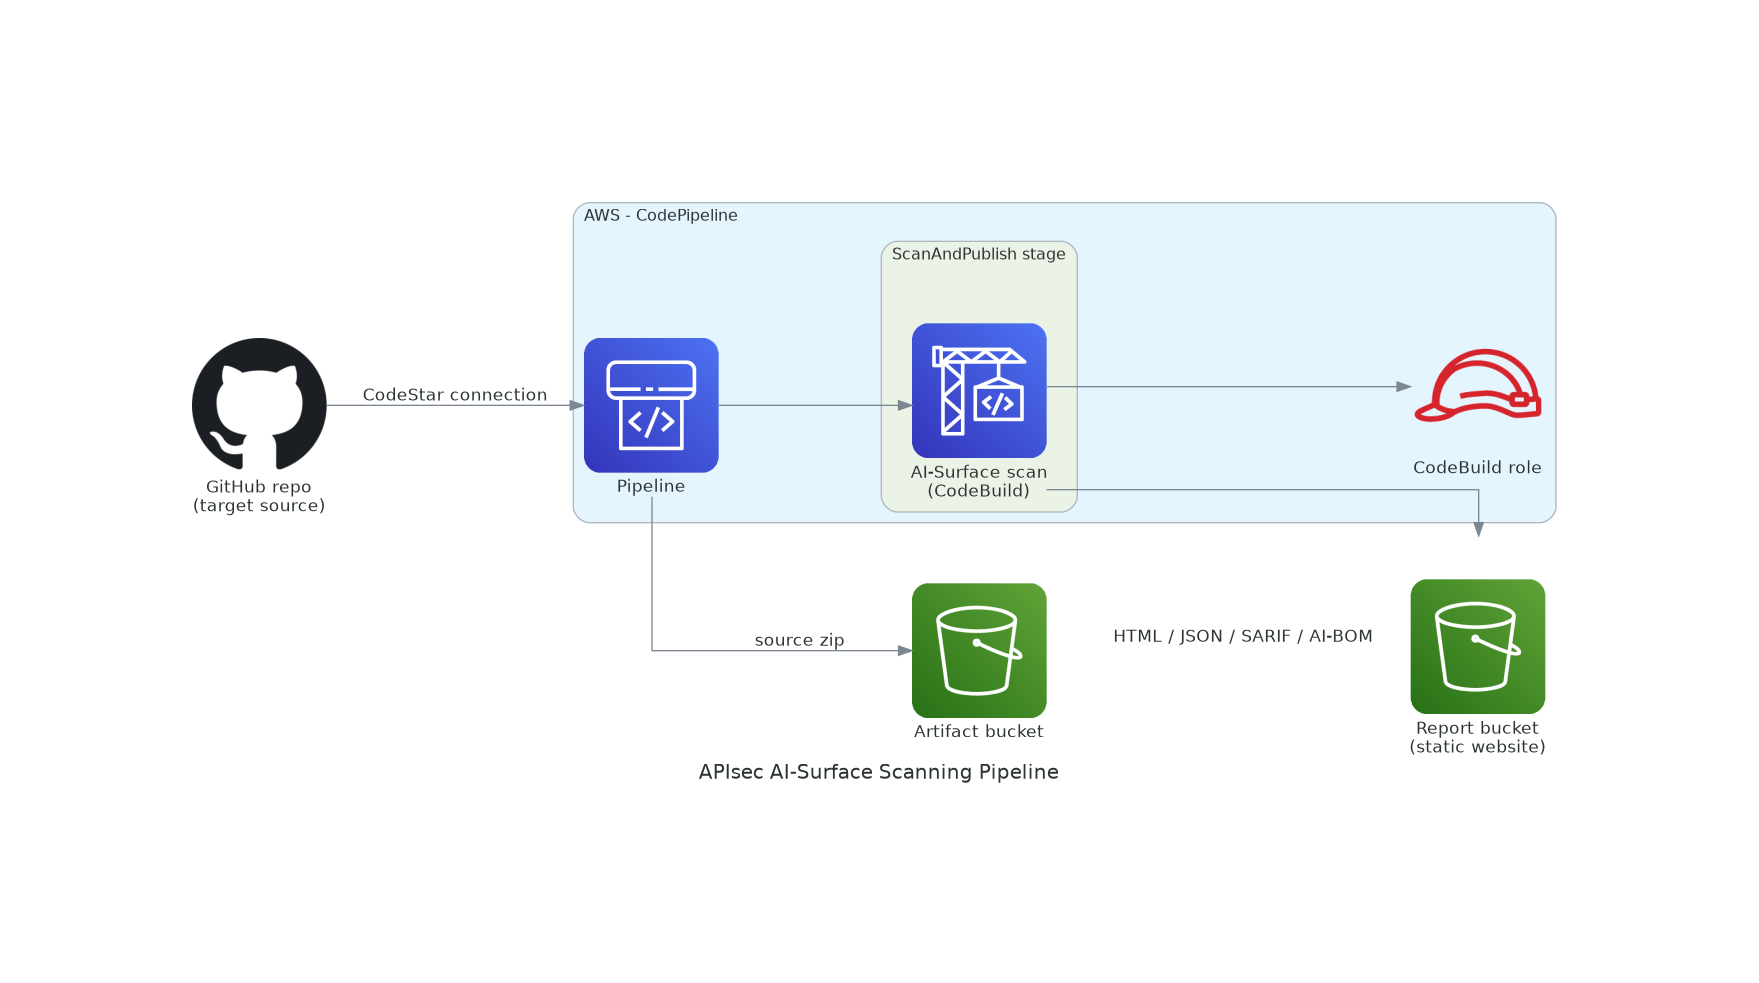
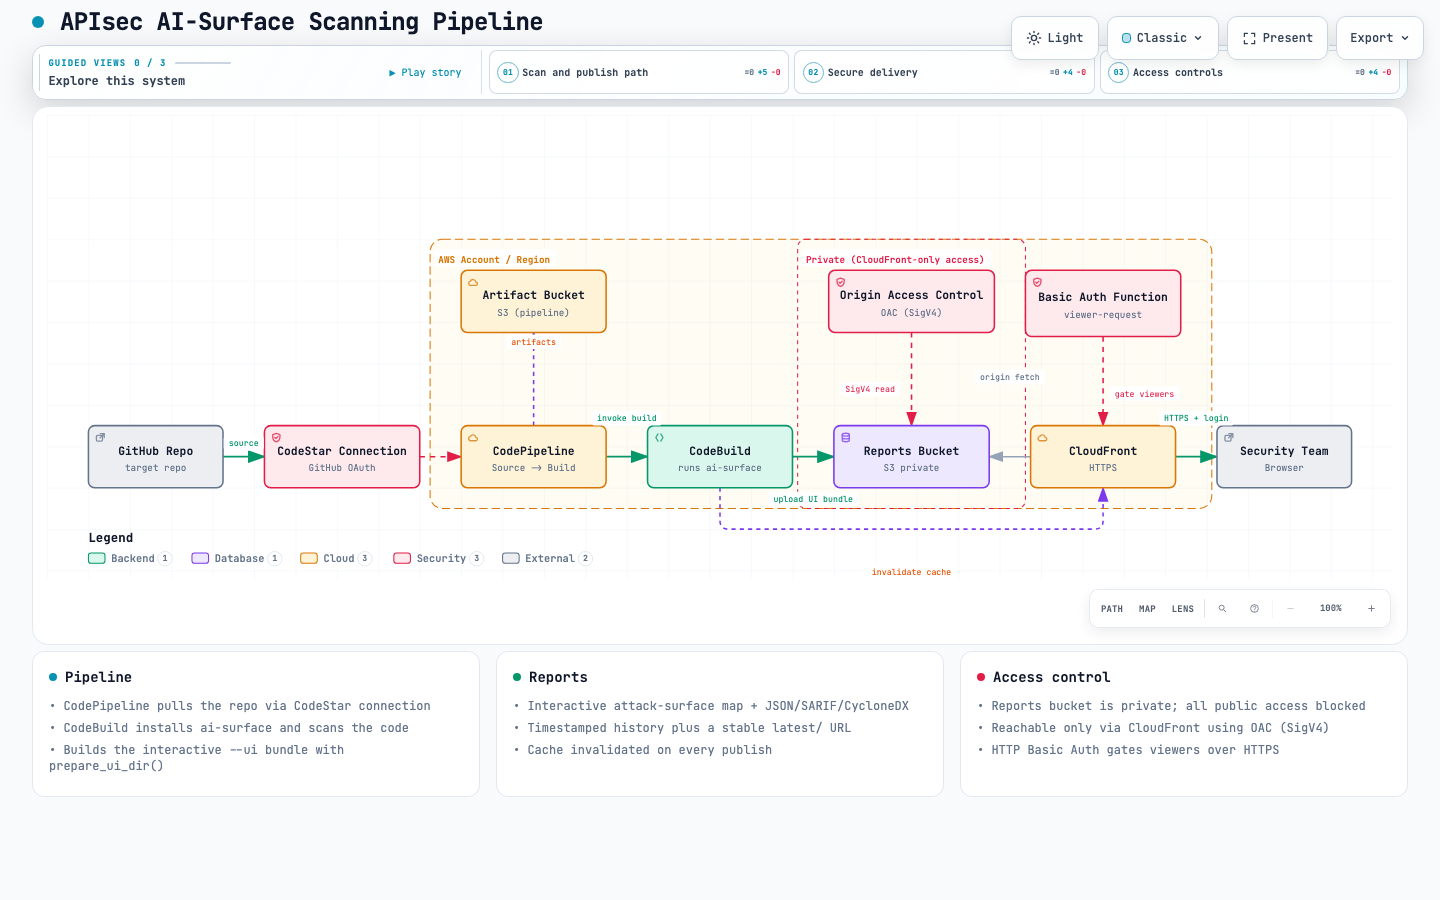
Embed rendered diagram PNG in README
GitHub Markdown can't display the interactive Archify HTML inline, so the
README showed only a link and no image. Render the Archify diagram to a
PNG (headless Chrome screenshot of the delivered HTML) and embed it with
an image tag, keeping the HTML link for the interactive version.

- docs/diagrams/apisec-ai-surface-pipeline.png: refreshed, now matches
  the current architecture (CloudFront + OAC + Basic Auth + optional WAF).
- Remove the obsolete apisec-ai-surface-pipeline.py generator; the JSON
  IR is the diagram source now.
- README embeds the PNG and links the interactive HTML.

diff --git a/README.md b/README.md
@@ -6,12 +6,15 @@ to S3 so the security team can review the findings.
 
 ## How it works
 
-**Interactive architecture diagram:** [`docs/diagrams/apisec-ai-surface-pipeline.html`](docs/diagrams/apisec-ai-surface-pipeline.html)
-— open it in a browser for the live, navigable system map (search, trace routes, themes, export).
+![APIsec AI-Surface scanning pipeline architecture](docs/diagrams/apisec-ai-surface-pipeline.png)
+
+For the **interactive** version (search, route tracing, themes, export), open
+[`docs/diagrams/apisec-ai-surface-pipeline.html`](docs/diagrams/apisec-ai-surface-pipeline.html)
+in a browser.
 
 <sub>Generated with [Archify](https://github.com/tt-a1i/archify) from the typed source
 [`docs/diagrams/apisec-ai-surface-pipeline.architecture.json`](docs/diagrams/apisec-ai-surface-pipeline.architecture.json).
-Regenerate: `node archify/bin/archify.mjs deliver architecture docs/diagrams/apisec-ai-surface-pipeline.architecture.json docs/diagrams/apisec-ai-surface-pipeline.html --quality showcase`</sub>
+Regenerate the HTML: `node archify/bin/archify.mjs deliver architecture docs/diagrams/apisec-ai-surface-pipeline.architecture.json docs/diagrams/apisec-ai-surface-pipeline.html --quality showcase`</sub>
 
 ```
 GitHub repo ──(CodeStar connection)──▶ CodePipeline
